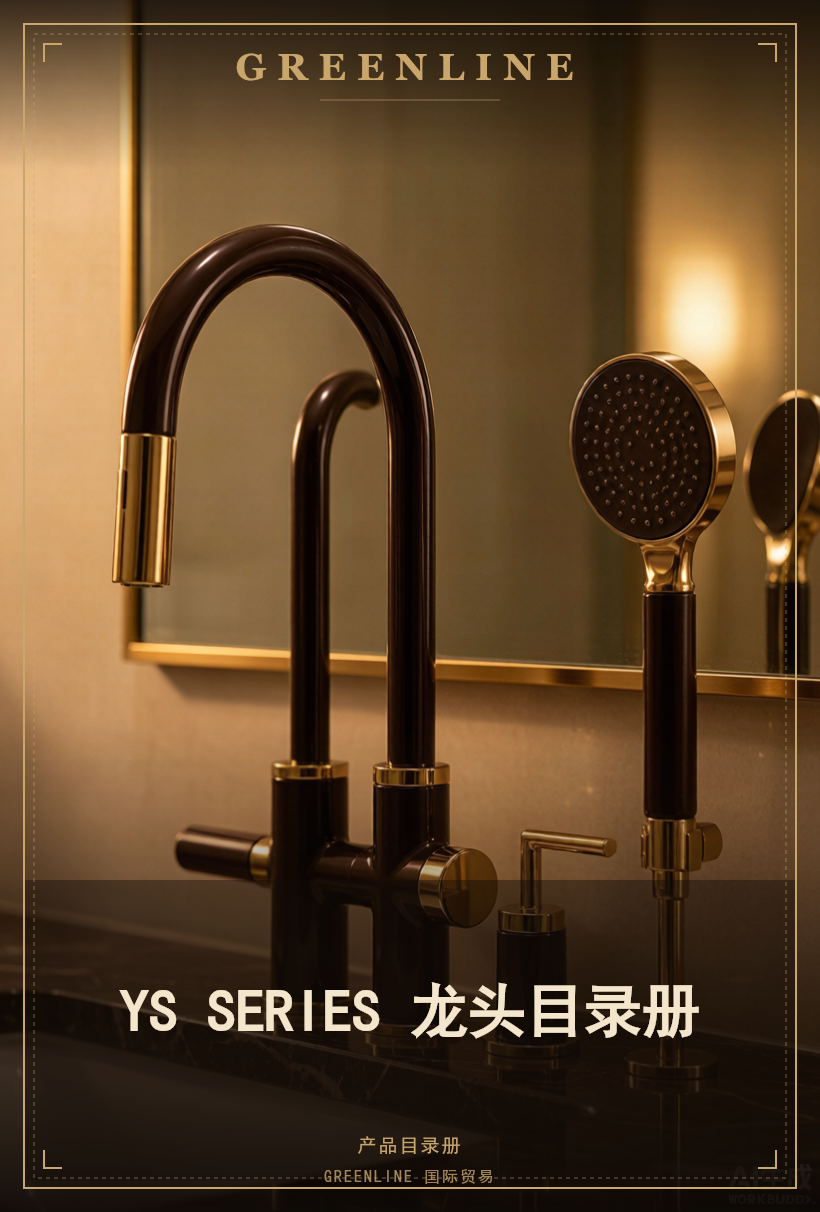
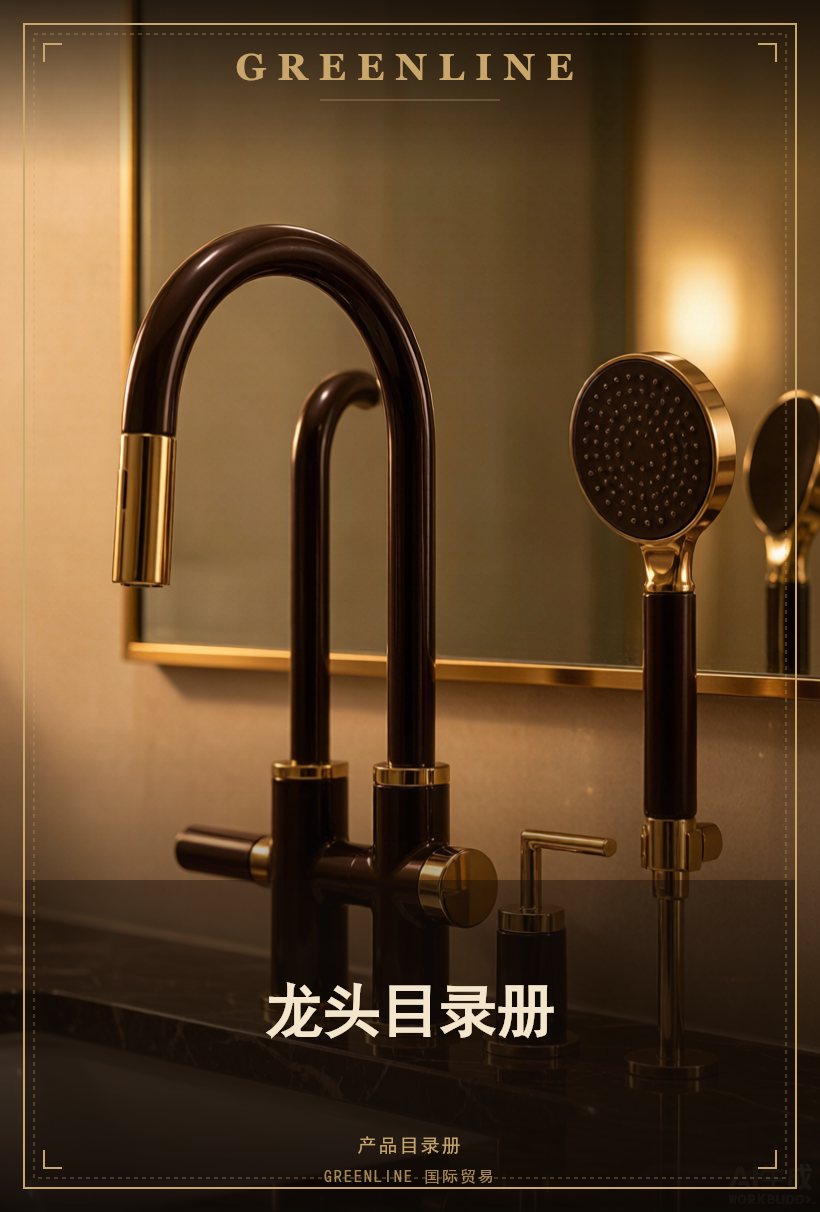
Remove YS SERIES brand from ys-series title and covers

Changed region(s): [[0.2439, 0.7937, 0.8537, 0.8548], [0.1524, 0.7937, 0.2134, 0.8548]]

diff --git a/catalog/catalogs.js b/catalog/catalogs.js
@@ -390,8 +390,8 @@ window.CATALOGS = [
   {
     "folder": "ys-series",
     "category": "bathroom",
-    "title_cn": "YS SERIES 龙头目录册",
-    "title_en": "YS SERIES FAUCET CATALOG",
+    "title_cn": "龙头目录册",
+    "title_en": "FAUCET CATALOG",
     "pages": 22,
     "cover_cn": "./ys-series/cover_cn.png",
     "cover_en": "./ys-series/cover_en.png"
